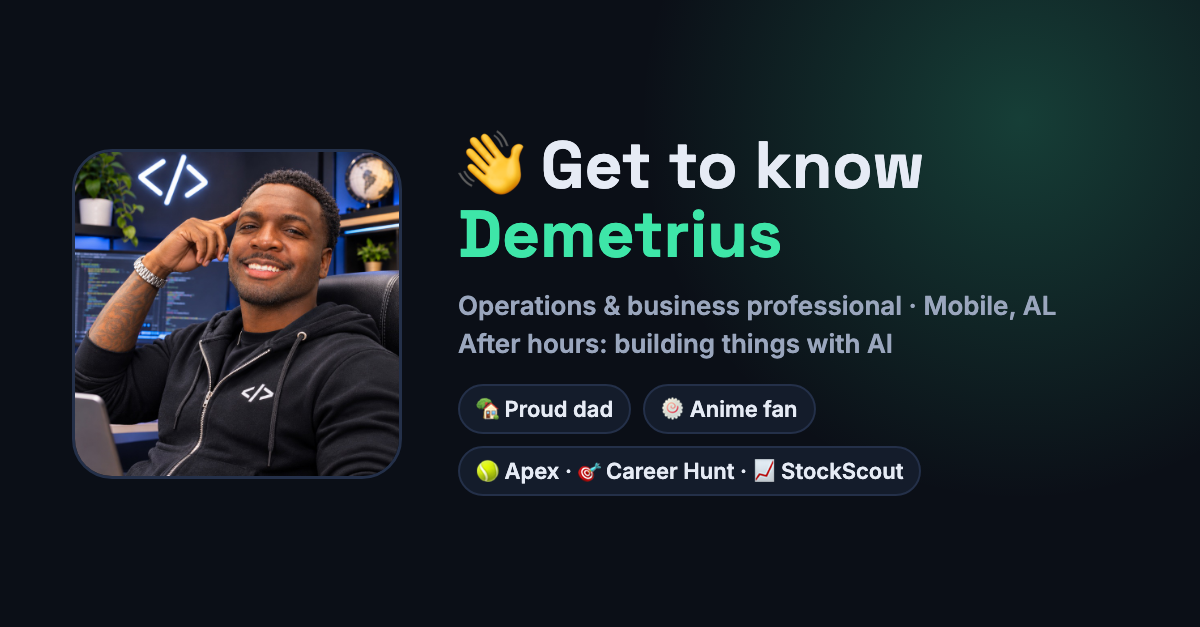
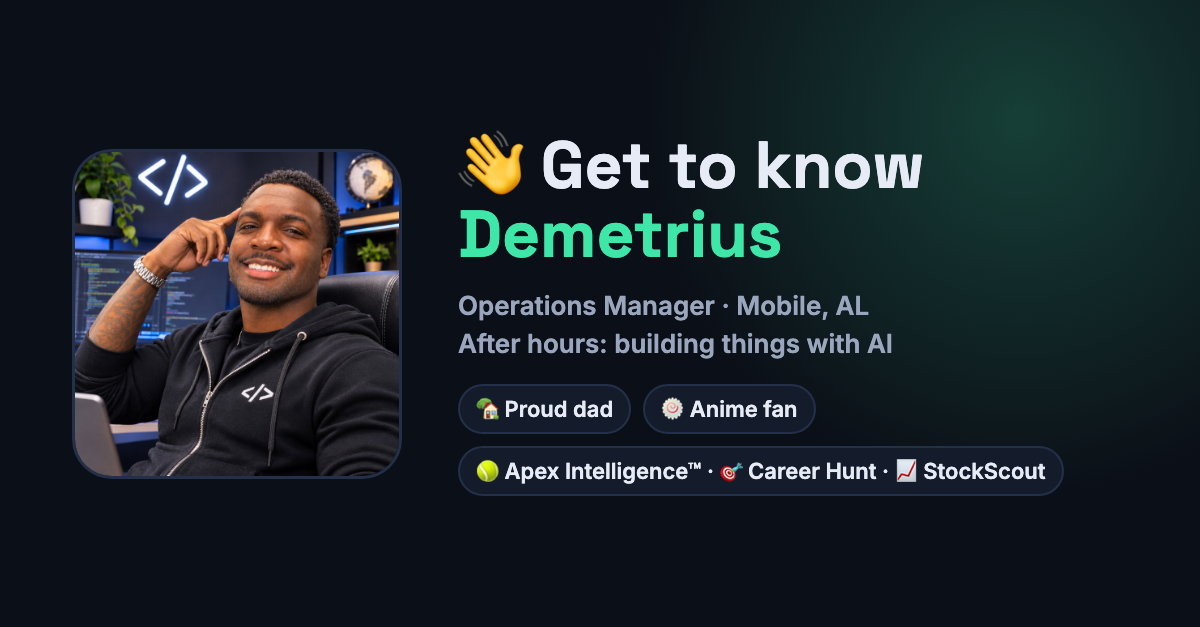
Rename Apex to Project Apex Intelligence™ (motto: Structured Truth Over Assumptions.)

Changed region(s): [[0.4625, 0.697, 0.8942, 0.8182], [0.4933, 0.4545, 0.8942, 0.5152]]

diff --git a/index.html b/index.html
@@ -87,7 +87,7 @@ footer{padding:36px 0 54px;color:var(--muted);font-size:.86rem;border-top:1px so
     <h1>I make operations <em>run smoother</em>, and I build the tools to prove it.</h1>
     <p class="lead">By day I'm an Operations Manager at Way to Go Logistics in Mobile, Alabama, and I've been leading teams since 2013: process improvement, cost control, vendor negotiation and high-performing teams. After hours I'm a builder. I design systems with AI that think in probabilities, read the fine print, and always keep a human in charge.</p>
     <div class="builds">
-      <a class="build" href="#projects"><span class="bi">🎾</span><span><b>Apex</b> prices sports props 24/7, then grades every pick against the real result so it can't fool itself.</span></a>
+      <a class="build" href="#projects"><span class="bi">🎾</span><span><b>Apex Intelligence™</b> prices sports props 24/7, then grades every pick against the real result so it can't fool itself.</span></a>
       <a class="build" href="#projects"><span class="bi">🎯</span><span><b>Career Hunt</b> is my networking copilot. It turns LinkedIn alerts into drafted replies, designs an image for every post, and waits for my ✅.</span></a>
       <a class="build" href="#projects"><span class="bi">📈</span><span><b>StockScout</b> reads SEC filings and headlines so I don't have to, and explains any stock in plain English.</span></a>
     </div>
@@ -106,7 +106,7 @@ footer{padding:36px 0 54px;color:var(--muted);font-size:.86rem;border-top:1px so
   <p class="muted">Work is what I do. This is who I am.</p>
   <div class="grid3">
     <div class="card reveal"><div class="ic">🏡</div><h3>Proud dad</h3><p>Family comes first. They're my biggest motivation and the reason I keep learning and building.</p></div>
-    <div class="card reveal"><div class="ic">🤖</div><h3>Building things with AI</h3><p>My favorite hobby. I turn ideas into working tools, like <a href="#projects">Apex and Career Hunt</a>, and learn something new with every build.</p></div>
+    <div class="card reveal"><div class="ic">🤖</div><h3>Building things with AI</h3><p>My favorite hobby. I turn ideas into working tools, like <a href="#projects">Apex Intelligence and Career Hunt</a>, and learn something new with every build.</p></div>
     <div class="card reveal"><div class="ic">🍥</div><h3>Anime fan</h3><p>Always up for a good series. Ask me what I'm watching, or tell me what I should watch next.</p></div>
   </div>
 </div></section>
@@ -152,10 +152,11 @@ footer{padding:36px 0 54px;color:var(--muted);font-size:.86rem;border-top:1px so
   <p class="muted">One crunches sports data around the clock, one helps people stay genuinely connected, and one explains the stock market in plain English. Same habits in all three: test it, measure it, keep a human in charge.</p>
   <div id="apex" style="margin-top:34px"></div>
   <div class="eyebrow">🎾 Data &amp; analytics</div>
-  <h2>🧪 Apex: a system that grades itself</h2>
+  <h2>🧪 Project Apex Intelligence™: a system that grades itself</h2>
+  <p style="font:600 1rem 'JetBrains Mono',monospace;color:var(--accent);margin:-6px 0 0">“Structured Truth Over Assumptions.”</p>
   <div class="apex reveal">
     <div>
-      <p class="muted" style="margin-top:0">Apex prices sports player props around the clock. It collects data, runs it through a probability model, checks it against sportsbook prices, posts ranked boards to Discord, and grades every pick against the real result. I designed and directed it and built it with AI coding assistants.</p>
+      <p class="muted" style="margin-top:0">My highest-level analysis engine, the top of the pyramid, combining models, evaluations and tools in one place. Apex Intelligence prices sports player props around the clock. It collects data, runs it through a probability model, checks it against sportsbook prices, posts ranked boards to Discord, and grades every pick against the real result. I designed and directed it and built it with AI coding assistants.</p>
       <p class="muted">It's the same operations mindset: test before you trust, measure everything, make every change reversible.</p>
       <div class="cta"><a class="btn primary" href="https://demetriusreynolds251-maker.github.io/apex/">▶ Take the interactive tour</a><a class="btn" href="https://github.com/demetriusreynolds251-maker">💻 GitHub</a></div>
     </div>

diff --git a/github/index.html b/github/index.html
@@ -1,10 +1,10 @@
 <!doctype html><html lang="en"><head><meta charset="utf-8">
-<title>My GitHub: Apex, Career Hunt and StockScout</title>
-<meta name="description" content="The code behind three things I built with AI: Apex (sports analytics), Career Hunt (networking command center) and StockScout (plain-English stock research).">
+<title>My GitHub: Apex Intelligence™, Career Hunt and StockScout</title>
+<meta name="description" content="The code behind three things I built with AI: Apex Intelligence™ (sports analytics), Career Hunt (networking command center) and StockScout (plain-English stock research).">
 <meta property="og:type" content="website">
-<meta property="og:title" content="My GitHub: Apex, Career Hunt and StockScout">
+<meta property="og:title" content="My GitHub: Apex Intelligence™, Career Hunt and StockScout">
 <meta property="og:description" content="The code behind three things I built with AI: Apex (sports analytics), Career Hunt (networking command center) and StockScout (plain-English stock research).">
-<meta property="og:image" content="https://demetriusreynolds251-maker.github.io/github/og.png">
+<meta property="og:image" content="https://demetriusreynolds251-maker.github.io/github/og.png?v=2">
 <meta property="og:image:width" content="1200"><meta property="og:image:height" content="627">
 <meta property="og:url" content="https://demetriusreynolds251-maker.github.io/github/">
 <meta name="twitter:card" content="summary_large_image">

diff --git a/about/index.html b/about/index.html
@@ -1,10 +1,10 @@
 <!doctype html><html lang="en"><head><meta charset="utf-8">
 <title>👋 Get to know Demetrius Reynolds</title>
-<meta name="description" content="Operations & business professional in Mobile, AL. Proud dad, anime fan, and after hours I build things with AI: Apex, Career Hunt and StockScout.">
+<meta name="description" content="Operations & business professional in Mobile, AL. Proud dad, anime fan, and after hours I build things with AI: Apex Intelligence™, Career Hunt and StockScout.">
 <meta property="og:type" content="website">
 <meta property="og:title" content="👋 Get to know Demetrius Reynolds">
 <meta property="og:description" content="Operations & business professional in Mobile, AL. Proud dad, anime fan, and after hours I build things with AI.">
-<meta property="og:image" content="https://demetriusreynolds251-maker.github.io/about/card.png">
+<meta property="og:image" content="https://demetriusreynolds251-maker.github.io/about/card.png?v=2">
 <meta property="og:image:width" content="1200"><meta property="og:image:height" content="627">
 <meta property="og:url" content="https://demetriusreynolds251-maker.github.io/about/">
 <meta name="twitter:card" content="summary_large_image">
